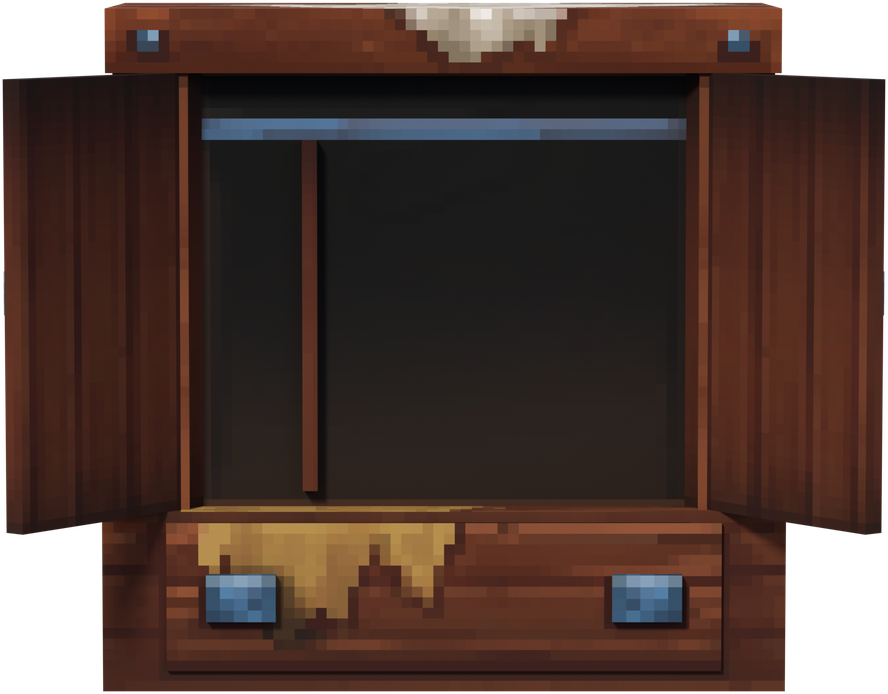
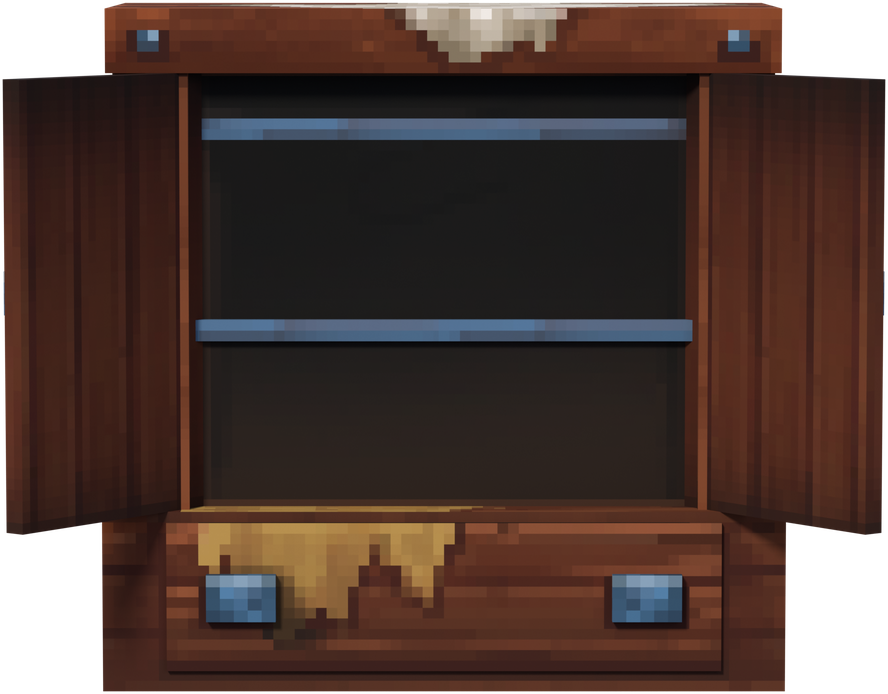
wardrobe: two full racks of five, pages for designer skins

Changed region(s): [[0.2128, 0.1816, 0.7905, 0.7262]]

diff --git a/mod/src/skineditor/WardrobePage.java b/mod/src/skineditor/WardrobePage.java
@@ -20,8 +20,9 @@ import java.util.List;
 import javax.annotation.Nonnull;
 
 /**
- * The in-game wardrobe: the open Lumberjack wardrobe with the player's own skin on the left of the post and the skins saved in the
- * website's Locker ("My skins" in the skins folder) on the right, each on a hook with the picture the site saves beside it. A click
+ * The in-game wardrobe: the open Lumberjack wardrobe with two racks. The top one holds the player's own skin (the in-game preset
+ * slots join it once Hytale allows sign-in); the bottom one the skins saved in the website's Locker ("My skins" in the skins folder),
+ * five to a page turned with the arrows on the doors, each on a hook with the picture the site saves beside it. A click
  * wears that skin (the mod writes Wearing.json, so custom pieces and the keepOwn rule work as from the site); the own skin gives the
  * real one back. The skin under the pointer lifts off the rail; the worn one hangs forward in a warm light. Opened by using the
  * Designer Wardrobe block; no commands.
@@ -33,7 +34,10 @@ final class WardrobePage extends InteractiveCustomUIPage<WardrobePage.Event> {
 
     private final Wardrobe wardrobe;
     private final PlayerRef who;
-    private int hovered = -2;                                   // the hanger under the pointer: -1 = own skin, -2 = none
+    private int hovered = -2;                                   // the hanger under the pointer: -1 = own skin, 0..4 = bottom rack, -2 = none
+    private int page = 0;
+    static final int RACK = 5;                                  // hangers on a rack
+    static final String NO_PIC = "UI/Custom/Pages/Memories/MissingIcon.png";
     private List<Wardrobe.Look> looks = List.of();
     private String status = "";
 
@@ -46,21 +50,21 @@ final class WardrobePage extends InteractiveCustomUIPage<WardrobePage.Event> {
     public void build(@Nonnull Ref<EntityStore> ref, @Nonnull UICommandBuilder ui, @Nonnull UIEventBuilder ev, @Nonnull Store<EntityStore> store) {
         ui.append(LAYOUT);
         looks = wardrobe.looks();
-        for (int i = 0; i < looks.size(); i++) {
-            String card = "#Grid[" + i + "] ";
+        String worn = wardrobe.wornName();                      // open on the page holding the skin worn
+        for (int i = 0; i < looks.size(); i++) if (looks.get(i).name().equals(worn)) page = i / RACK;
+        for (int i = 0; i < RACK; i++) {
             ui.append("#Grid", CARD);
-            ui.set(card + "#Name.Text", looks.get(i).name());
-            String pic = looks.get(i).picture();
-            if (pic != null) ui.set(card + "#Pic.AssetPath", pic);
-            ui.set(card + "#Rail.Visible", i >= 3);                 // the first row hangs from the wardrobe's own rail
-            bind(ev, card + "#Card", Integer.toString(i));
+            bind(ev, "#Grid[" + i + "] #Card", Integer.toString(i));
         }
         String own = wardrobe.ownPicture(who.getUuid());
         if (own != null) ui.set("#OwnPic.AssetPath", own);
         ui.set("#OwnName.Text", who.getUsername());
         bind(ev, "#OwnCard", "own");
+        ev.addEventBinding(CustomUIEventBindingType.Activating, "#PrevPage", EventData.of("Type", "Page").append("Slot", "-1"), false);
+        ev.addEventBinding(CustomUIEventBindingType.Activating, "#NextPage", EventData.of("Type", "Page").append("Slot", "1"), false);
         ui.set("#Count.Text", looks.size() + " / 50");
         ui.set("#Empty.Visible", looks.isEmpty());
+        fill(ui);
         render(ui);
     }
 
@@ -70,37 +74,60 @@ final class WardrobePage extends InteractiveCustomUIPage<WardrobePage.Event> {
         ev.addEventBinding(CustomUIEventBindingType.MouseExited, sel, EventData.of("Type", "Leave").append("Slot", slot), false);
     }
 
+    private int pages() { return Math.max(1, (looks.size() + RACK - 1) / RACK); }
+
+    /** the bottom rack's five hangers show the page's skins */
+    private void fill(UICommandBuilder ui) {
+        for (int i = 0; i < RACK; i++) {
+            int k = page * RACK + i; String card = "#Grid[" + i + "] ";
+            ui.set(card + "#Card.Visible", k < looks.size());
+            if (k >= looks.size()) continue;
+            ui.set(card + "#Name.Text", looks.get(k).name());
+            String pic = looks.get(k).picture();
+            ui.set(card + "#Pic.AssetPath", pic != null ? pic : NO_PIC);
+        }
+        ui.set("#Page.Text", pages() > 1 ? (page + 1) + " / " + pages() : "");
+        ui.set("#PrevPage.Visible", page > 0);
+        ui.set("#NextPage.Visible", page < pages() - 1);
+    }
+
     @Override
     public void handleDataEvent(@Nonnull Ref<EntityStore> ref, @Nonnull Store<EntityStore> store, @Nonnull Event e) {
         if (e.type == null || e.slot == null) return;
         int i;
         try { i = "own".equals(e.slot) ? -1 : Integer.parseInt(e.slot); } catch (NumberFormatException x) { return; }
-        if (i < -1 || i >= looks.size()) return;
-        switch (e.type) {
-            case "Enter" -> hovered = i;
-            case "Leave" -> { if (hovered == i) hovered = -2; }
-            case "Wear" -> {
-                try { if (i == -1) wardrobe.wearOwn(); else wardrobe.wear(looks.get(i)); status = ""; }
-                catch (Exception ex) { status = "Could not change: " + ex.getMessage(); }
+        UICommandBuilder ui = new UICommandBuilder();
+        if ("Page".equals(e.type)) {
+            int to = Math.max(0, Math.min(pages() - 1, page + Integer.signum(i))); if (to == page) return;
+            page = to; hovered = -2; fill(ui);
+        } else {
+            if (i < -1 || i >= RACK || (i >= 0 && page * RACK + i >= looks.size())) return;
+            switch (e.type) {
+                case "Enter" -> hovered = i;
+                case "Leave" -> { if (hovered == i) hovered = -2; }
+                case "Wear" -> {
+                    try { if (i == -1) wardrobe.wearOwn(); else wardrobe.wear(looks.get(page * RACK + i)); status = ""; }
+                    catch (Exception ex) { status = "Could not change: " + ex.getMessage(); }
+                }
+                default -> { return; }
             }
-            default -> { return; }
         }
-        UICommandBuilder ui = new UICommandBuilder(); render(ui); sendUpdate(ui, null, false);
+        render(ui); sendUpdate(ui, null, false);
     }
 
     /** the worn skin glows and hangs forward (a little bigger); the one under the pointer lifts off the rail */
     private void render(UICommandBuilder ui) {
         String worn = wardrobe.wornName();
-        for (int i = 0; i < looks.size(); i++) {
-            boolean on = looks.get(i).name().equals(worn); String card = "#Grid[" + i + "] ";
+        for (int i = 0; i < RACK; i++) {
+            int k = page * RACK + i; boolean on = k < looks.size() && looks.get(k).name().equals(worn); String card = "#Grid[" + i + "] ";
             ui.set(card + "#Worn.Visible", on);
-            ui.setObject(card + "#Hang.Anchor", box(0, hovered == i ? -8 : 0, 120, 200));
-            ui.setObject(card + "#Pic.Anchor", on ? box(2, 64, 116, 116) : box(6, 68, 108, 108));
+            ui.setObject(card + "#Hang.Anchor", box(0, hovered == i ? -8 : 0, 98, 200));
+            ui.setObject(card + "#Pic.Anchor", on ? box(0, 64, 98, 98) : box(4, 68, 90, 90));
         }
         boolean own = wardrobe.wearingOwn();
         ui.set("#OwnWorn.Visible", own);
-        ui.setObject("#OwnHang.Anchor", box(0, hovered == -1 ? -8 : 0, 124, 200));
-        ui.setObject("#OwnPic.Anchor", own ? box(24, 64, 76, 122) : box(27, 68, 70, 112));
+        ui.setObject("#OwnHang.Anchor", box(0, hovered == -1 ? -8 : 0, 98, 200));
+        ui.setObject("#OwnPic.Anchor", own ? box(17, 64, 64, 104) : box(19, 68, 60, 98));
         ui.set("#Status.Text", status);
     }
 

diff --git a/dev/tools/render-wardrobe.py b/dev/tools/render-wardrobe.py
@@ -1,5 +1,5 @@
 # Renders the in-game wardrobe screen's art (mod 1.4.0) from the game's own Lumberjack wardrobe model, doors swung open, in Blender
-# with soft light on a transparent background: the wardrobe, the rail for each further row of skins, and the hook a skin hangs on.
+# with soft light on a transparent background: the wardrobe with a second rack, the hook a skin hangs on, and the page arrows.
 # Writes name@2x.png into the mod's UI folder and prints the layout (UI units) that Wardrobe.ui / WardrobeCard.ui are built on.
 # python dev/tools/render-wardrobe.py [--blender <blender.exe>] [--assets <Assets.zip>]
 import json, os, subprocess, sys, tempfile, zipfile
@@ -15,7 +15,6 @@ SRC = 'Common/Blocks/Decorative_Sets/Lumberjack/'
 # the model's interior (the painted inside of its front face) and our pieces, in model units
 IN_X0, IN_X1, IN_TOP, IN_BOT, FACE_Z = -41, 8, 56.65, 18.65, 8
 RAIL_TOP, RAIL_BOT = 53.65, 51.65
-POST_X0, POST_X1 = -29.3, -27.9                     # the post between "your skin" and the Locker's skins
 IRON = [10, 5]                                      # rail texels on the model's sheet
 
 def glow(name, peak, w=127, h=150):
@@ -28,7 +27,7 @@ def glow(name, peak, w=127, h=150):
             px[x, y] = (255, 200, 110, int(max(0.0, 1 - d) ** 2 * peak * 255))
     im.save(os.path.join(OUT, name + '@2x.png'), optimize=True)
 
-glow('WornGlow', 0.75); glow('HoverGlow', 0.25, 127, 200)
+glow('WornGlow', 0.75, 104, 150); glow('HoverGlow', 0.25, 104, 200)
 if '--glow-only' in sys.argv: sys.exit()
 tmp = tempfile.mkdtemp()
 with zipfile.ZipFile(ASSETS) as z:
@@ -52,32 +51,35 @@ def render(name, **over):
     im.resize((im.width // 2, im.height // 2), Image.LANCZOS).save(os.path.join(OUT, name + '@2x.png'), optimize=True)
     return im, {k: [[(p[0] - box[0]) / 2, (p[1] - box[1]) / 2] for p in v] for k, v in marks.items()}
 
-post = {'position': [(POST_X0 + POST_X1) / 2, (RAIL_BOT + IN_BOT) / 2, FACE_Z + 0.8], 'size': [POST_X1 - POST_X0, RAIL_BOT - IN_BOT, 1.6],
-        'uv': {'front': [100, 2], 'right': [100, 2], 'left': [100, 2], 'top': [100, 2]}}
-art, m = render('Wardrobe', extra=[post])
+# the second rack, one row of skins (200 UI units) under the wardrobe's own rail, rendered into the picture so it always runs the
+# full width; and the page arrows, iron like the drawer's knobs (lighter while the pointer is on them)
+ROW = 200 / (402 / (IN_TOP - IN_BOT))                  # one row in model units
+HALF = (IN_X1 - IN_X0) / 2                              # two lengths, so each stays on the sheet's iron strip
+rail2 = [{'position': [IN_X0 + HALF * (i + 0.5), (RAIL_TOP + RAIL_BOT) / 2 - ROW, FACE_Z + 0.4], 'size': [HALF, RAIL_TOP - RAIL_BOT, 0.8],
+          'uv': {'front': IRON, 'top': IRON, 'bottom': IRON}} for i in (0, 1)]
+art, m = render('Wardrobe', extra=rail2, marks={'interior': [[IN_X0, IN_TOP, FACE_Z], [IN_X1, IN_BOT, FACE_Z]],
+                                                  'rail2': [[IN_X0, RAIL_TOP - ROW, FACE_Z]]})
 (ix0, iy0), (ix1, iy1) = m['interior']
-u = lambda x: ix0 + (x - IN_X0) * (ix1 - ix0) / (IN_X1 - IN_X0)       # model x -> UI x on the art
 v = lambda y: iy0 + (IN_TOP - y) * (iy1 - iy0) / (IN_TOP - IN_BOT)
 
-# a rail for each further row of skins, the length of the Locker side
-rail = {'position': [(POST_X1 + IN_X1) / 2, (RAIL_TOP + RAIL_BOT) / 2, FACE_Z + 0.05], 'size': [IN_X1 - POST_X1, RAIL_TOP - RAIL_BOT, 0.1],
-        'uv': {'front': IRON, 'top': IRON}}
-rim, rm = render('Rail', no_model=True, extra=[rail], marks={'r': [[POST_X1, RAIL_TOP, FACE_Z], [IN_X1, RAIL_BOT, FACE_Z]]})
 # the hook: a bar over the rail and a drop in front of it, iron like the rail
 hook = [{'position': [0, RAIL_TOP + 0.3, FACE_Z + 0.6], 'size': [1.2, 0.6, 1.6], 'uv': {f: IRON for f in ('front', 'top', 'left', 'right')}},
         {'position': [0, RAIL_BOT - 0.4, FACE_Z + 1.15], 'size': [0.6, 3.0, 0.6], 'uv': {f: IRON for f in ('front', 'top', 'left', 'right', 'bottom')}}]
 him, hm = render('Hook', no_model=True, extra=hook, marks={'c': [[0, RAIL_TOP + 0.6, FACE_Z]]})
 
+def arrow(name, sign, key):
+    # a stepped triangle pointing right (left when sign is -1), each step a block faced like the drawer's iron knobs
+    cubes = [(0, y) for y in range(-2, 3)] + [(1, y) for y in range(-1, 2)] + [(2, 0)]
+    faces = {'front': [57, 109], 'top': [51, 109], 'bottom': [51, 109], 'left': [51, 114], 'right': [51, 114]}
+    ex = [{'position': [sign * x * 2, 36 + y * 2, FACE_Z], 'size': [2, 2, 2], 'uv': faces} for x, y in cubes]
+    im, _ = render(name, no_model=True, extra=ex, lights={'key': key, 'fill': 0.6, 'rim': 1.0}, marks={})
+    return im
+for side, sign in (('Left', -1), ('Right', 1)):
+    a = arrow('Page' + side, sign, 3.6); arrow('Page' + side + 'Hover', sign, 7.0)
+
 lay = {'art': [art.width // 2, art.height // 2],
        'interior': [round(ix0), round(iy0), round(ix1 - ix0), round(iy1 - iy0)],
-       'own': [round(ix0), round(u(POST_X0) - ix0)], 'locker': [round(u(POST_X1)), round(ix1 - u(POST_X1))],
-       'rail_y': [round(v(RAIL_TOP) - iy0, 1), round(v(RAIL_BOT) - iy0, 1)],
-       'hook': {'size': [him.width // 2, him.height // 2], 'top_from_interior': round(v(RAIL_TOP + 0.6) - iy0 - hm['c'][0][1], 1),
-                'center_x_in_image': round(hm['c'][0][0], 1)},
-       'rail_png': {'size': [rim.width // 2, rim.height // 2], 'rail_top_in_image': round(rm['r'][0][1], 1)}}
-# one card's length of rail from the middle of the long one (no end caps), so each card carries its own and the rows scroll
-card = 120                                          # three to a row with room for the scrollbar
-mid = rim.width // 2; rim.crop((mid - card, 0, mid + card, rim.height)).resize((card, rim.height // 2), Image.LANCZOS).save(os.path.join(OUT, 'RailPiece@2x.png'), optimize=True)
-os.remove(os.path.join(OUT, 'Rail@2x.png'))
-lay['card_w'] = card
+       'rail_y': [round(v(RAIL_TOP) - iy0, 1), round(v(RAIL_BOT) - iy0, 1)], 'rail2_top': round(m['rail2'][0][1] - iy0, 1),
+       'hook': {'size': [him.width // 2, him.height // 2], 'top_from_interior': round(v(RAIL_TOP + 0.6) - iy0 - hm['c'][0][1], 1)},
+       'arrow': [a.width // 2, a.height // 2]}
 print(json.dumps(lay))
